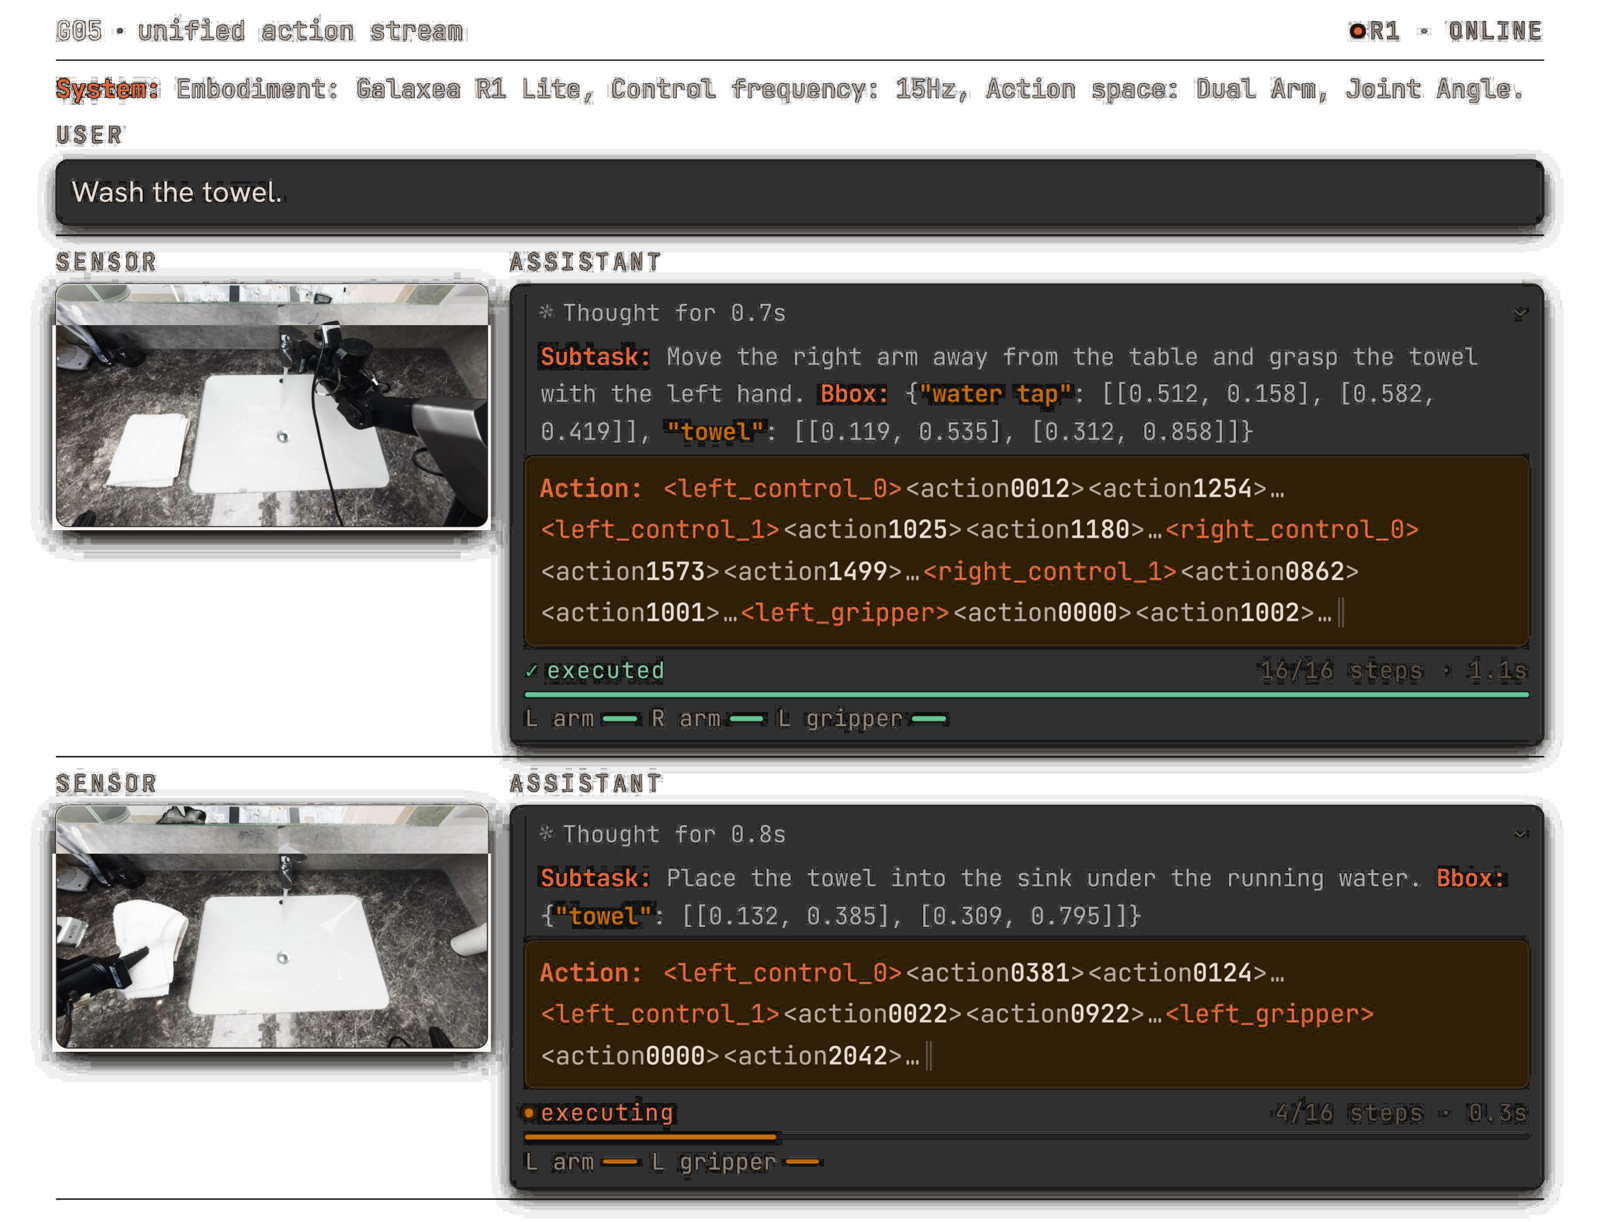
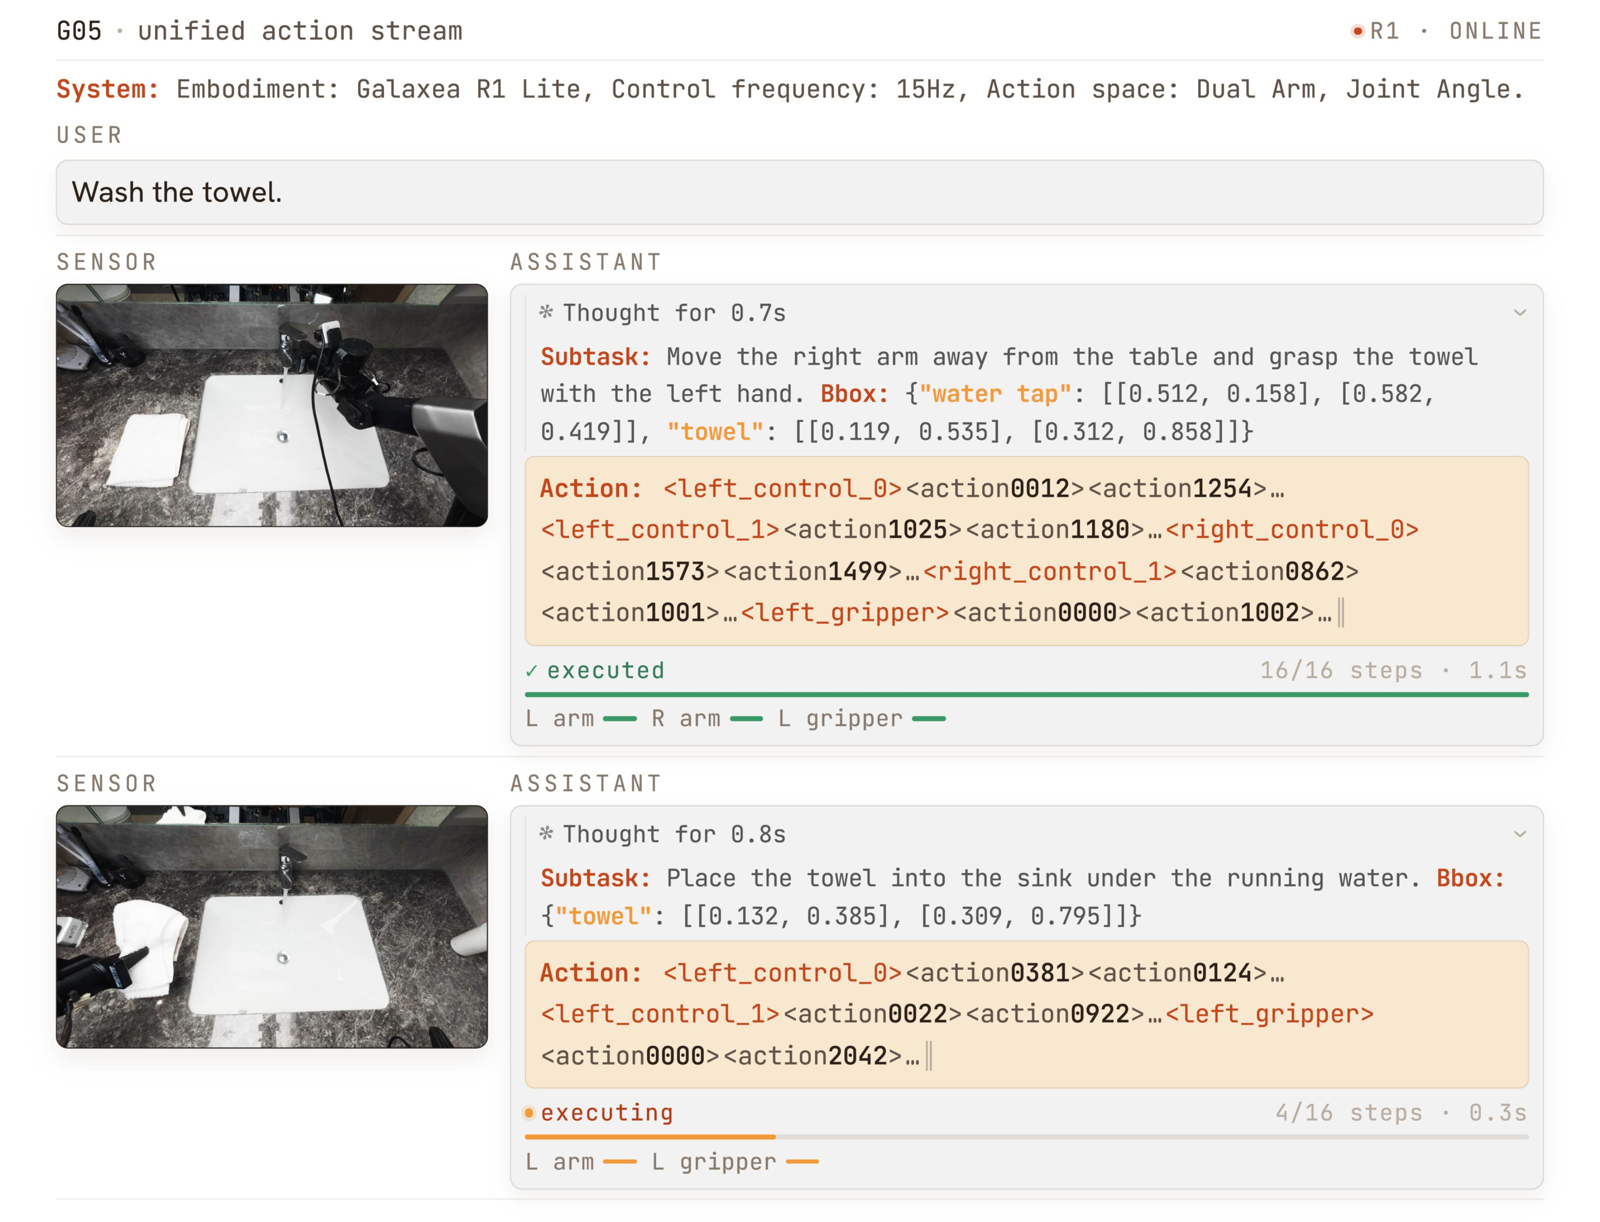
Restore original teaser (Fig 1); style new embodiments without B&W
Revert Figure 1 to the original figs/teaser.jpg (light UI, true-color sensor
frames) on a light card — the recolor mangled the embedded camera photos.
Update the replaced embodiments figure by keying out only its white background
(flood-fill) so every robot keeps full color, and place it on a dark card so it
sits on the theme without any black-and-white inversion.

diff --git a/src/components/Distributions.tsx b/src/components/Distributions.tsx
@@ -201,7 +201,7 @@ export function Distributions({ onInViewChange }: { onInViewChange?: (v: boolean
       </div>
 
       <figure className="mb-12">
-        <div className="bg-white rounded-2xl p-4 md:p-6 border border-white/10 shadow-2xl">
+        <div className="bg-[#0d0d0d] rounded-2xl p-4 md:p-6 border border-white/10 shadow-2xl">
           <img src="images/embodiments.png" alt="Robot platforms represented in pre-training" loading="lazy" className="w-full h-auto rounded-lg select-none pointer-events-none" referrerPolicy="no-referrer" />
         </div>
         <figcaption className="mt-3 text-sm font-mono text-neutral-500 text-center tracking-wide">

diff --git a/src/components/InteractiveDiagram.tsx b/src/components/InteractiveDiagram.tsx
@@ -13,7 +13,7 @@ export function InteractiveDiagram() {
 
       {/* Operation interface (paper Fig. 1) */}
       <figure className="my-12">
-        <div className="bg-[#0a0a0a] rounded-2xl p-3 md:p-4 border border-white/10 shadow-2xl">
+        <div className="bg-white rounded-2xl p-3 md:p-4 border border-white/10 shadow-2xl">
           <img
             src="images/teaser.png"
             alt="G0.5 operation interface: interleaved chain-of-thought and action tokens"